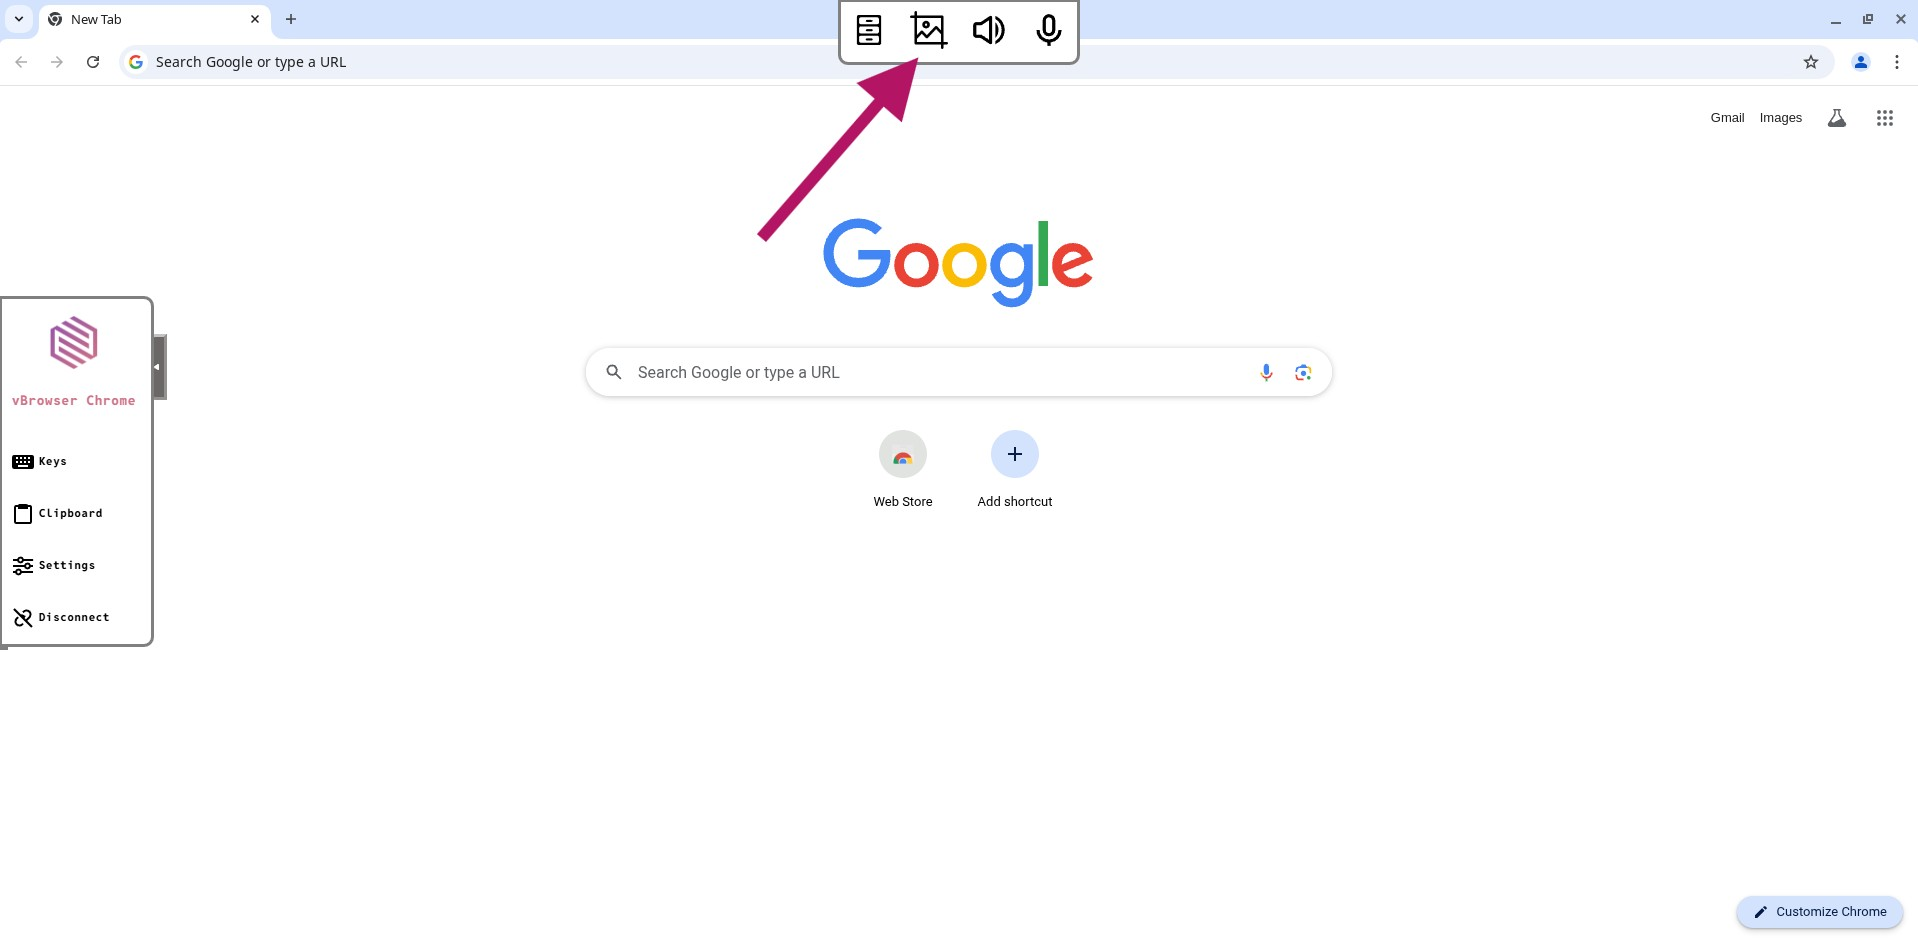
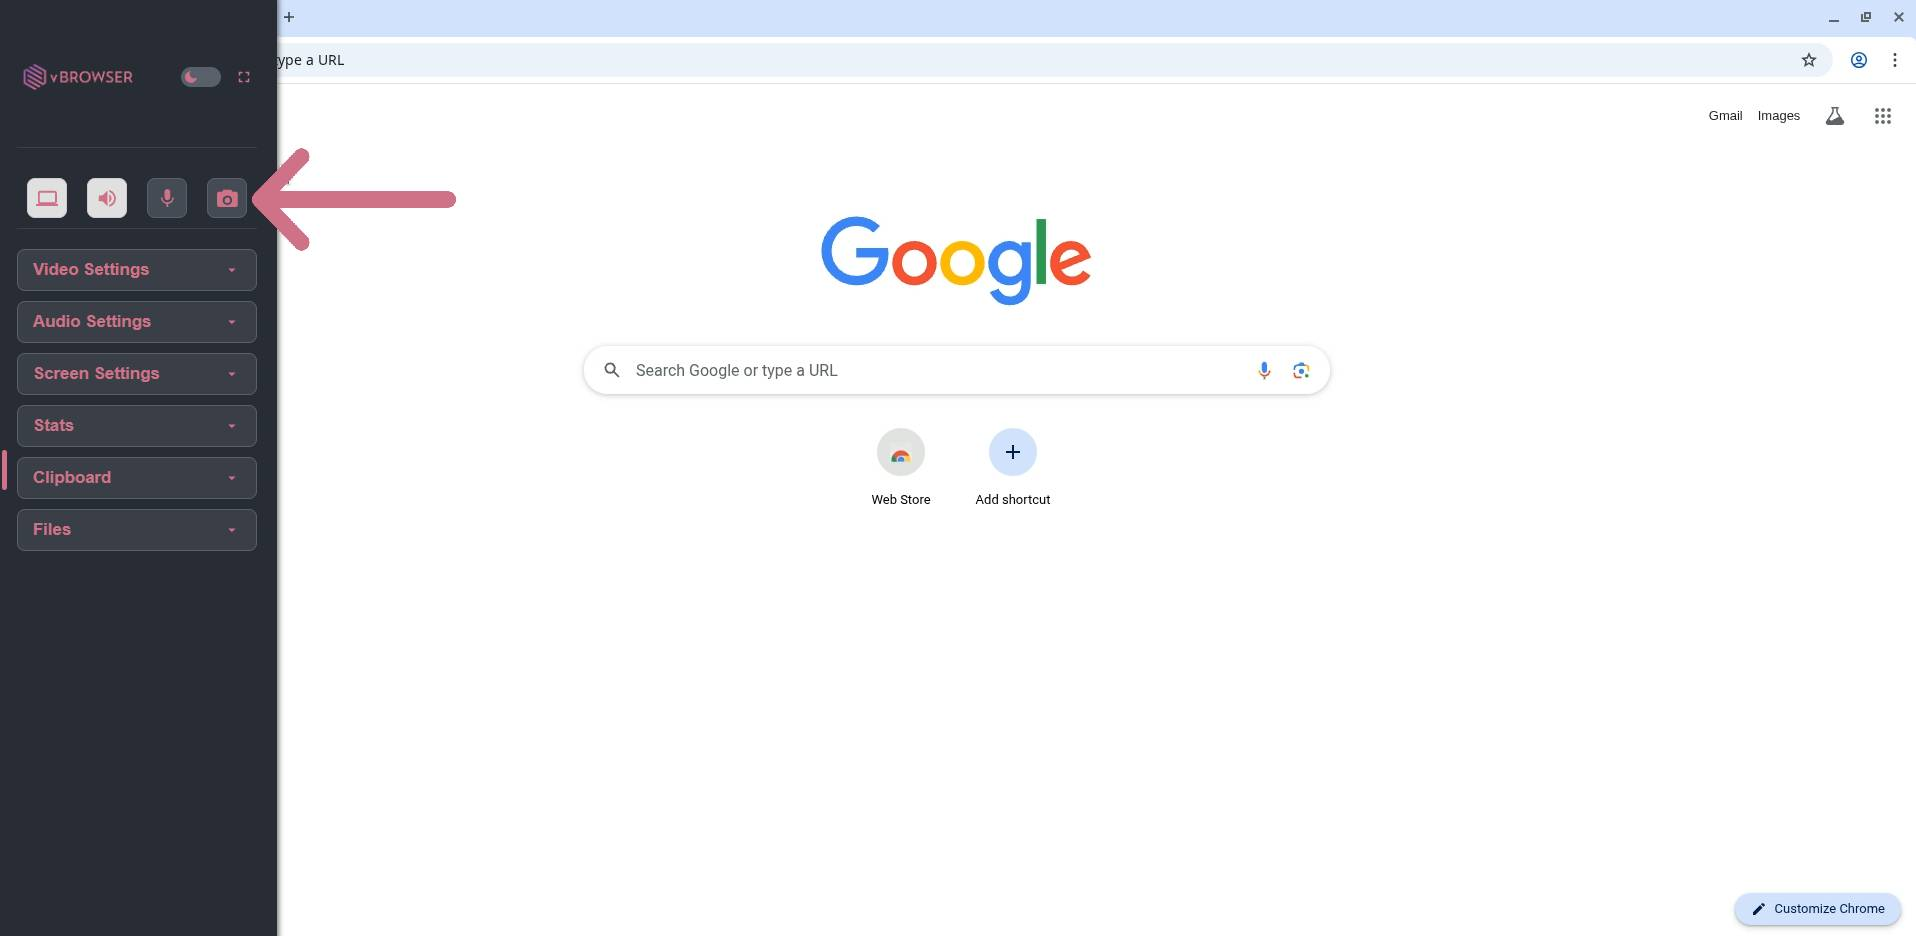
Updated documentation in webapp Fixes #9

diff --git a/django/main/templates/main/docs_file.html b/django/main/templates/main/docs_file.html
@@ -137,9 +137,6 @@
         <div class="me-4">
           <h1 class="pb-1">File Management</h1>
           <p class="text-muted fs-lg mb-2">Upload and download settings.</p>
-          <div class="alert alert-danger" role="alert">
-            Only Professional tier users will be able to perform file uploads and downloads.
-          </div>
         </div>
       </div>
 
@@ -160,48 +157,33 @@
                 </div>
               </li>
             </ul>
-            <li>Click the "Filebrowser" icon.</li>
+            <li>Click the "Files" section on the sidebar.</li>
             <ul>
               <li>
                 <div class="gallery" style="max-width: 416px;">
-                  <a href="{% static 'images/filebrowser.jpg' %}" class="gallery-item rounded-3" data-sub-html='<h6 class="text-light">Filebrowser Icon</h6>'>
-                    <img src="{% static 'images/filebrowser.jpg' %}" alt="Gallery thumbnail">
-                    <div class="gallery-item-caption fs-sm fw-medium">Filebrowser Icon</div>
+                  <a href="{% static 'images/file-management.jpg' %}" class="gallery-item rounded-3" data-sub-html='<h6 class="text-light">Files Section</h6>'>
+                    <img src="{% static 'images/file-management.jpg' %}" alt="Gallery thumbnail">
+                    <div class="gallery-item-caption fs-sm fw-medium">Files Section</div>
                   </a>
                 </div>
               </li>
             </ul>
-            <li>Click the "Downloads" folder to change to this folder location.
-              <div class="alert alert-danger" role="alert">
-                Users are only allowed to upload/download to/from the Downloads folder.
+            <li>Click the "Upload Files" button to open an internal file explorer.
+              <div class="alert d-flex alert-warning" role="alert">
+                <i class="bx bx-error lead me-3"></i>
+                <div>
+                  Users will only be able to upload files to the <code>/config/Desktop</code> directory.
+                </div>
+              </div>
+              <div class="alert d-flex alert-warning" role="alert">
+                <i class="bx bx-error lead me-3"></i>
+                <div>
+                   Drag and drop is currently not supported.
+                </div>
               </div>
             </li>
-            <ul>
-              <li>
-                <div class="gallery" style="max-width: 416px;">
-                  <a href="{% static 'images/donwloads.jpg' %}" class="gallery-item rounded-3" data-sub-html='<h6 class="text-light">Downloads Folder</h6>'>
-                    <img src="{% static 'images/donwloads.jpg' %}" alt="Gallery thumbnail">
-                    <div class="gallery-item-caption fs-sm fw-medium">Downloads Folder</div>
-                  </a>
-                </div>
-              </li>
-            </ul>
-            <li>Upload file one of two ways.
-              <ol>
-                <li>Click the "Upload Files" button.</li>
-                <li>Drag and drop a file into the file browser window.
-                  <ul>
-                    <li>
-                      <div class="gallery" style="max-width: 416px;">
-                        <a href="{% static 'images/drag-n-drop.png' %}" class="gallery-item rounded-3" data-sub-html='<h6 class="text-light">Upload File</h6>'>
-                          <img src="{% static 'images/drag-n-drop.png' %}" alt="Gallery thumbnail">
-                          <div class="gallery-item-caption fs-sm fw-medium">Upload File</div>
-                        </a>
-                      </div>
-                    </li>
-                  </ul>
-                </li>
-              </ol>
+            <li>
+              A file explorer will populate, select the file(s) to upload and submit.
             </li>
           </ol>
         </div>
@@ -224,49 +206,35 @@
                 </div>
               </li>
             </ul>
-            <li>Click the "Filebrowser" icon.</li>
+            <li>Click the "Files" section on the sidebar.</li>
             <ul>
               <li>
                 <div class="gallery" style="max-width: 416px;">
-                  <a href="{% static 'images/filebrowser.jpg' %}" class="gallery-item rounded-3" data-sub-html='<h6 class="text-light">Filebrowser Icon</h6>'>
-                    <img src="{% static 'images/filebrowser.jpg' %}" alt="Gallery thumbnail">
-                    <div class="gallery-item-caption fs-sm fw-medium">Filebrowser Icon</div>
+                  <a href="{% static 'images/file-management.jpg' %}" class="gallery-item rounded-3" data-sub-html='<h6 class="text-light">Files Section</h6>'>
+                    <img src="{% static 'images/file-management.jpg' %}" alt="Gallery thumbnail">
+                    <div class="gallery-item-caption fs-sm fw-medium">Files Section</div>
                   </a>
                 </div>
               </li>
             </ul>
-            <li>Click the "Downloads" folder to change to this folder location.
-              <div class="alert alert-danger" role="alert">
-                Users are only allowed to upload/download to/from the Downloads folder.
+            <li>Click the "Download Files" button to open an internal file explorer.
+              <div class="alert d-flex alert-warning" role="alert">
+                <i class="bx bx-error lead me-3"></i>
+                <div>
+                  Users will only have access to the <code>/config/Desktop</code> directory and children directories.
+                </div>
               </div>
             </li>
-            <ul>
-              <li>
-                <div class="gallery" style="max-width: 416px;">
-                  <a href="{% static 'images/donwloads.jpg' %}" class="gallery-item rounded-3" data-sub-html='<h6 class="text-light">Downloads Folder</h6>'>
-                    <img src="{% static 'images/donwloads.jpg' %}" alt="Gallery thumbnail">
-                    <div class="gallery-item-caption fs-sm fw-medium">Downloads Folder</div>
-                  </a>
-                </div>
-              </li>
-            </ul>
+            <li>
+              Files will be zipped using 7zip and have a password of <code>infected</code>. These files may be dangerous.
+            </li>
             <li>Click on desired file to download.
-              <div class="alert alert-secondary" role="alert">
-                Users may download single files or any file archive. However, downloading un-archived folders is not possible.
+              <div class="alert d-flex alert-danger" role="alert">
+                <i class="bx bx-block lead me-3"></i>
+                <div>
+                  By performing this action, you will be actively downloading files from the session into a password-protected 7-ZIP file. These files are offered “as-is” and may contain malicious content. By downloading, you acknowledge and accept all risks, confirm you have the necessary knowledge to handle potentially harmful files, and agree that you are solely responsible for any resulting damage or loss. We disclaim all liability for any security breaches, malware, or other adverse effects. It is strongly recommended that you use up-to-date antivirus software and other security measures.
+                </div>
               </div>
-              <div class="alert alert-danger" role="alert">
-                By performing this action, you will be actively downloading files from the session into a non-password-protected ZIP file. These files are offered “as-is” and may contain malicious content. By downloading, you acknowledge and accept all risks, confirm you have the necessary knowledge to handle potentially harmful files, and agree that you are solely responsible for any resulting damage or loss. We disclaim all liability for any security breaches, malware, or other adverse effects. It is strongly recommended that you use up-to-date antivirus software and other security measures.
-              </div>
-              <ul>
-                <li>
-                  <div class="gallery" style="max-width: 416px;">
-                    <a href="{% static 'images/download.png' %}" class="gallery-item rounded-3" data-sub-html='<h6 class="text-light">Download File</h6>'>
-                      <img src="{% static 'images/download.png' %}" alt="Gallery thumbnail">
-                      <div class="gallery-item-caption fs-sm fw-medium">Download File</div>
-                    </a>
-                  </div>
-                </li>
-              </ul>
             </li>
           </ol>
         </div>

diff --git a/django/main/templates/main/docs_sounds.html b/django/main/templates/main/docs_sounds.html
@@ -157,13 +157,13 @@
                 </div>
               </li>
             </ul>
-            <li>Click the "Microphone" icon on the top menu.</li>
+            <li>Click the "Audio Settings" section on the sidebar.</li>
             <ul>
               <li>
                 <div class="gallery" style="max-width: 416px;">
-                  <a href="{% static 'images/microphone.jpg' %}" class="gallery-item rounded-3" data-sub-html='<h6 class="text-light">Microphone Icon</h6>'>
+                  <a href="{% static 'images/microphone.jpg' %}" class="gallery-item rounded-3" data-sub-html='<h6 class="text-light">Microphone Settings</h6>'>
                     <img src="{% static 'images/microphone.jpg' %}" alt="Gallery thumbnail">
-                    <div class="gallery-item-caption fs-sm fw-medium">Microphone Icon</div>
+                    <div class="gallery-item-caption fs-sm fw-medium">Microphone Settings</div>
                   </a>
                 </div>
               </li>
@@ -172,9 +172,9 @@
             <ul>
               <li>
                 <div class="gallery" style="max-width: 416px;">
-                  <a href="{% static 'images/permissions.jpg' %}" class="gallery-item rounded-3" data-sub-html='<h6 class="text-light">Permissions</h6>'>
-                    <img src="{% static 'images/permissions.jpg' %}" alt="Gallery thumbnail">
-                    <div class="gallery-item-caption fs-sm fw-medium">Permissions</div>
+                  <a href="{% static 'images/microphone-enable.jpg' %}" class="gallery-item rounded-3" data-sub-html='<h6 class="text-light">Enable Microphone</h6>'>
+                    <img src="{% static 'images/microphone-enable.jpg' %}" alt="Gallery thumbnail">
+                    <div class="gallery-item-caption fs-sm fw-medium">Enable Microphone</div>
                   </a>
                 </div>
               </li>
@@ -202,11 +202,17 @@
               </li>
             </ul>
             <li>Click the "Speaker" icon.</li>
+            <div class="alert d-flex alert-info" role="alert">
+              <i class="bx bx-info-circle lead me-3"></i>
+              <div>
+                This setting is enabled by default.
+              </div>
+            </div>
             <ul>
               <li>
                 <div class="gallery" style="max-width: 416px;">
-                  <a href="{% static 'images/speakers.jpg' %}" class="gallery-item rounded-3" data-sub-html='<h6 class="text-light">Speaker Icon</h6>'>
-                    <img src="{% static 'images/speakers.jpg' %}" alt="Gallery thumbnail">
+                  <a href="{% static 'images/audio-output.jpg' %}" class="gallery-item rounded-3" data-sub-html='<h6 class="text-light">Speaker Icon</h6>'>
+                    <img src="{% static 'images/audio-output.jpg' %}" alt="Gallery thumbnail">
                     <div class="gallery-item-caption fs-sm fw-medium">Speaker Icon</div>
                   </a>
                 </div>

diff --git a/django/main/templates/main/docs_clipboard.html b/django/main/templates/main/docs_clipboard.html
@@ -149,6 +149,12 @@
             <li>Copy some content from inside the session.</li>
             <li>Now you can paste the copied content to your device, as the content has been passed to your clipboard.</li>
           </ol>
+          <div class="alert d-flex alert-warning" role="alert">
+            <i class="bx bx-error lead me-3"></i>
+            <div>
+              You may be required to utilize the clipboard text box to perform copy operations. Refer to details below.
+            </div>
+          </div>
         </div>
       </section>
 
@@ -194,16 +200,6 @@
               </li>
             </ul>
             <li>Paste your content inside the text box, so it can be copied to the sessions clipboard.</li>
-            <ul>
-              <li>
-                <div class="gallery" style="max-width: 416px;">
-                  <a href="{% static 'images/paste.jpg' %}" class="gallery-item rounded-3" data-sub-html='<h6 class="text-light">Paste</h6>'>
-                    <img src="{% static 'images/paste.jpg' %}" alt="Gallery thumbnail">
-                    <div class="gallery-item-caption fs-sm fw-medium">Paste</div>
-                  </a>
-                </div>
-              </li>
-            </ul>
             <li>Now you can paste inside the session, as the content has been passed to the clipboard.</li>
           </ol>
         </div>

diff --git a/django/main/templates/main/docs_screenshot.html b/django/main/templates/main/docs_screenshot.html
@@ -169,13 +169,15 @@
               </li>
             </ul>
             <li>A screenshot will now be saved to your device as "screenshot.png".</li>
-            
-            <div class="alert alert-danger" role="alert">
-              Screenshots are available for both user tiers.
+            <div class="alert d-flex alert-info" role="alert">
+              <i class="bx bx-info-circle lead me-3"></i>
+              <div>
+                Screenshots are available for both user tiers.
               <ul>
                 <li>Free users: Screenshots will contain a watermark.</li>
                 <li>Professional users: Screenshots will not contain a watermark.</li>
               </ul>
+              </div>
             </div>
           </ol>
         </div>

diff --git a/django/main/templates/main/docs_session.html b/django/main/templates/main/docs_session.html
@@ -179,8 +179,7 @@
           <div class="alert alert-danger" role="alert">
             It is possible for the session to end automatically if the user does not supply any user feedback in a specified amount of time.
             <ul>
-              <li>Free users: 2 minutes of inactivity.</li>
-              <li>Professional users: 5 minutes of inactivity.</li>
+              <li>Whatever your administrator has set DEFAULT_IDLE_THRESHOLD to (in minutes).</li>
             </ul>
             Closing the application window will force the session to end.
           </div>
